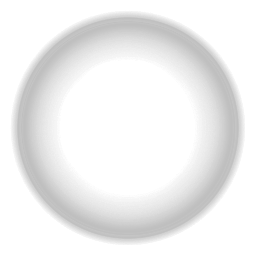
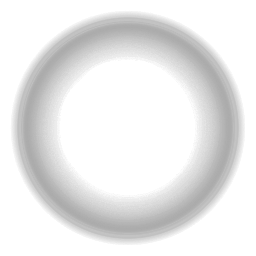
minor graphical tweaks

Changed region(s): [[0.0938, 0.0938, 0.9062, 0.9062]]

diff --git a/src/NodeTrack.cpp b/src/NodeTrack.cpp
@@ -105,7 +105,7 @@ void NodeTrack::setData( TrackRef track, PlaylistRef album, const Surface &album
 	mRadius				= 0.0f;
 	mSphere				= Sphere( mPos, mRadiusDest );
 	mIdealCameraDist	= 0.15f;//math<float>::max( mRadiusDest * 5.0f, 0.5f );
-	mCloudLayerRadius	= mRadiusDest * 0.05f;
+	mCloudLayerRadius	= mRadiusDest * 0.025f;
 	
 	mOrbitPeriod		= mTrackLength;
 
@@ -113,7 +113,7 @@ void NodeTrack::setData( TrackRef track, PlaylistRef album, const Surface &album
 	
 	mInitAngle			= mOrbitStartAngle;
 	mAxialTilt			= Rand::randFloat( -5.0f, 20.0f );
-    mAxialVel			= Rand::randFloat( 15.0f, 20.0f ) * ( mStarRating + 1 );
+    mAxialVel			= Rand::randFloat( 15.0f, 20.0f );
 	mAxialRot			= Vec3f( 0.0f, Rand::randFloat( 150.0f ), mAxialTilt );
 
 	// TEXTURE CREATION MOVED TO UPDATE
@@ -123,16 +123,16 @@ void NodeTrack::setData( TrackRef track, PlaylistRef album, const Surface &album
 void NodeTrack::setStartAngle()
 {
 	mPercentPlayed		= 0.0f;
-	float angle			= atan2( mPos.z - mParentNode->mPos.z, mPos.x - mParentNode->mPos.x );
+//	float angle			= atan2( mPos.z - mParentNode->mPos.z, mPos.x - mParentNode->mPos.x );
 	float timeOffset	= (float)mMyTime/mOrbitPeriod;
 	mOrbitStartAngle	= timeOffset * TWO_PI;
 	
-	std::cout << "Start Angle set in NodeTrack: " << mOrbitStartAngle << std::endl;
-	std::cout << "mPercentPlayed: " << mPercentPlayed << std::endl;
-	std::cout << "timeOffset: " << timeOffset << std::endl;
-	std::cout << "mMyTime: " << mMyTime << std::endl;
-	std::cout << "angle: " << angle << std::endl;
-	std::cout << " ================= " << std::endl;
+//	std::cout << "Start Angle set in NodeTrack: " << mOrbitStartAngle << std::endl;
+//	std::cout << "mPercentPlayed: " << mPercentPlayed << std::endl;
+//	std::cout << "timeOffset: " << timeOffset << std::endl;
+//	std::cout << "mMyTime: " << mMyTime << std::endl;
+//	std::cout << "angle: " << angle << std::endl;
+//	std::cout << " ================= " << std::endl;
 }
 
 
@@ -224,6 +224,7 @@ void NodeTrack::update( float param1, float param2 )
 	// CREATE MOON TEXTURE
 	if( !mHasCreatedAlbumArt && mAge>mIndex * 2 ){
         int albumArtWidth   = mAlbumArtSurface.getWidth();
+		if( albumArtWidth > 256 ) albumArtWidth = 256; // FIXME: This is here because the album art is coming back at 320x320 for a 256x256 image request
 		int totalWidth		= albumArtWidth/2; // TODO: rename these?
 		int halfWidth		= totalWidth/2;
 		if( mAlbumArtSurface ){
@@ -240,7 +241,7 @@ void NodeTrack::update( float param1, float param2 )
             
 			// grab a section of the album art
 			Area a			= Area( x, y, x+w, y+h );
-			//std::cout << a << std::endl;
+//			std::cout << "area = " << a << std::endl;
 			Surface crop	= Surface( totalWidth, totalWidth, false );
 			Surface crop2	= Surface( totalWidth, totalWidth, false );
 			ci::ip::resize( mAlbumArtSurface, a, &crop, Area( 0, 0, halfWidth, totalWidth ), FilterCubic() );
@@ -264,7 +265,8 @@ void NodeTrack::update( float param1, float param2 )
 				}
 			}
 			
-            
+			
+
 			// fix the polar pinching
 			Surface::Iter iter2 = crop.getIter();
 			while( iter2.line() ) {
@@ -287,6 +289,7 @@ void NodeTrack::update( float param1, float param2 )
 					}
 				}
 			}
+			
 			
 			// add the planet texture
 			// and add the shadow from the cloud layer
@@ -315,6 +318,7 @@ void NodeTrack::update( float param1, float param2 )
             gl::Texture::Format fmt;
             fmt.enableMipmapping( true );
             fmt.setMinFilter( GL_LINEAR_MIPMAP_LINEAR );
+			
 			
 			mAlbumArtTex		= gl::Texture( planetSurface, fmt );
 			mHasAlbumArt		= true;
@@ -482,8 +486,6 @@ void NodeTrack::drawClouds( const vector<gl::Texture> &clouds )
 			glPushMatrix();
 			gl::translate( mPos );
 			clouds[mCloudTexIndex].enableAndBind();
-			
-		//	gl::enableAdditiveBlending();
 
             // !!! ROBERT/FIXME: there used to be an extra pushModelView() here
             // if things look weird with the clouds, it's probably Tom's fault for removing it
@@ -496,6 +498,7 @@ void NodeTrack::drawClouds( const vector<gl::Texture> &clouds )
 			const float grey = mShadowPer + 0.2f;
 			gl::color( ColorA( grey, grey, grey, alpha * mClosenessFadeAlpha ) );
 
+			gl::enableAdditiveBlending();
             if( mSphereScreenRadius > 70.0f ){
                 mHiSphere->draw();
             } else if( mSphereScreenRadius > 30.0f  ){
@@ -519,19 +522,20 @@ void NodeTrack::drawAtmosphere( const Vec3f &camEye, const Vec2f &center, const 
 
 		Vec2f dir		= mScreenPos - center;
 		float dirLength = dir.length()/500.0f;
-		float angle		= atan2( dir.y, dir.x );
-		float stretch	= 1.0f + dirLength * 0.1f;
 		float alpha = mNormPlayCount * 0.5f * mDeathPer;
 		
 //		float alpha = 0.3f * ( 1.0f - dirLength );
 //		if( G_ZOOM <= G_ALBUM_LEVEL )
 //			alpha = pinchAlphaPer;
 
+		Vec2f radius( mRadius, mRadius );
+		radius *= ( 2.45f + max( ( mSphereScreenRadius - 175.0f ) * 0.001f, 0.0f ) );
+		
+		
 		float grey = mShadowPer + 0.2f;
-		gl::color( ColorA( grey, grey, grey, alpha * mClosenessFadeAlpha ) );
-		Vec2f radius = Vec2f( mRadius * stretch, mRadius ) * 2.45f;
+		gl::color( ColorA( BRIGHT_BLUE, alpha * mClosenessFadeAlpha ) );
 		tex.enableAndBind();
-		bloom::gl::drawBillboard( mPos, radius, -angle, mBbRight, mBbUp );
+		bloom::gl::drawBillboard( mPos, radius, 0.0f, mBbRight, mBbUp );
 		tex.disable();
 		
 		gl::color( ColorA( mShadowPer, mShadowPer, mShadowPer, alpha * mClosenessFadeAlpha * mEclipseDirBasedAlpha * mDeathPer ) );

diff --git a/src/NodeAlbum.cpp b/src/NodeAlbum.cpp
@@ -126,6 +126,7 @@ void NodeAlbum::setData( PlaylistRef album )
 	int halfWidth		= totalWidth/2;
 	int border			= 10;
 	mAlbumArtSurface	= (*mAlbum)[0]->getArtwork( Vec2i( totalWidth, totalWidth ) );
+	
 	bool hasAlbumArt = true;
 	if( !mAlbumArtSurface ){
 		hasAlbumArt = false;
@@ -144,10 +145,9 @@ void NodeAlbum::setData( PlaylistRef album )
 	}
 	
 	// grab a section of the album art
-	Area a			= Area( x, y, x+w, y+h );
 	Surface crop	= Surface( totalWidth, totalWidth, false );
 	Surface crop2	= Surface( totalWidth, totalWidth, false );
-	ci::ip::resize( mAlbumArtSurface, a, &crop, Area( 0, 0, halfWidth, totalWidth ), FilterCubic() );
+	ci::ip::resize( mAlbumArtSurface, Area( x, y, x+w, y+h ), &crop, Area( 0, 0, halfWidth, totalWidth ), FilterCubic() );
 	
 	// make it a mirror image
 	Surface::Iter iter = crop2.getIter();
@@ -167,30 +167,30 @@ void NodeAlbum::setData( PlaylistRef album )
 			iter.b() = c.b * 255.0f;
 		}
 	}
-	
-	// fix the polar pinching
-	Surface::Iter iter2 = crop.getIter();
-	while( iter2.line() ) {
-		float cosTheta = cos( M_PI * ( iter2.y() - (float)( totalWidth - 1 )/2.0f ) / (float)( totalWidth - 1 ) );
-		
-		while( iter2.pixel() ) {
-			float phi	= TWO_PI * ( iter2.x() - halfWidth ) / (double)totalWidth;
-			float phi2	= phi * cosTheta;
-			int i2 = phi2 * totalWidth/TWO_PI + halfWidth;
-			
-			if( i2 < 0 || i2 > totalWidth-1 ){
-				// this should never happen
-				iter2.r() = 255.0f;
-				iter2.g() = 0.0f;
-				iter2.b() = 0.0f;
-			} else {
-				ColorA c = crop2.getPixel( Vec2i( i2, iter2.y() ) );
-				iter2.r() = c.r * 255.0f;
-				iter2.g() = c.g * 255.0f;
-				iter2.b() = c.b * 255.0f;
-			}
-		}
-	}
+//	
+//	// fix the polar pinching
+//	Surface::Iter iter2 = crop.getIter();
+//	while( iter2.line() ) {
+//		float cosTheta = cos( M_PI * ( iter2.y() - (float)( totalWidth - 1 )/2.0f ) / (float)( totalWidth - 1 ) );
+//		
+//		while( iter2.pixel() ) {
+//			float phi	= TWO_PI * ( iter2.x() - halfWidth ) / (double)totalWidth;
+//			float phi2	= phi * cosTheta;
+//			int i2 = phi2 * totalWidth/TWO_PI + halfWidth;
+//			
+//			if( i2 < 0 || i2 > totalWidth-1 ){
+//				// this should never happen
+//				iter2.r() = 255.0f;
+//				iter2.g() = 0.0f;
+//				iter2.b() = 0.0f;
+//			} else {
+//				ColorA c = crop2.getPixel( Vec2i( i2, iter2.y() ) );
+//				iter2.r() = c.r * 255.0f;
+//				iter2.g() = c.g * 255.0f;
+//				iter2.b() = c.b * 255.0f;
+//			}
+//		}
+//	}
 	
 	// add the planet texture
 	// and add the shadow from the cloud layer
@@ -202,7 +202,7 @@ void NodeAlbum::setData( PlaylistRef album )
 	iter = planetSurface.getIter();
 	while( iter.line() ) {
 		while( iter.pixel() ) {
-			ColorA albumColor	= crop.getPixel( Vec2i( iter.x(), iter.y() ) );
+			ColorA albumColor	= crop2.getPixel( Vec2i( iter.x(), iter.y() ) );
 			ColorA surfaceColor	= planetSurface.getPixel( Vec2i( iter.x(), iter.y() ) );
 			float planetVal		= surfaceColor.r;
 			float cloudShadow	= surfaceColor.g * 0.5f + 0.5f;
@@ -382,7 +382,7 @@ void NodeAlbum::drawClouds( const vector<gl::Texture> &clouds )
 		}
 		
 		
-		gl::enableAlphaBlending();
+		
         
 		glPushMatrix();
 		gl::translate( mPos );
@@ -393,6 +393,7 @@ void NodeAlbum::drawClouds( const vector<gl::Texture> &clouds )
         const float alpha = constrain( ( 5.0f - mDistFromCamZAxis ) * 0.2f, 0.0f, 0.334f ) * mClosenessFadeAlpha;        
         
         // SHADOW CLOUDS
+		gl::enableAlphaBlending();
         gl::scale( Vec3f( radius, radius, radius ) );
         gl::rotate( mAxialRot * Vec3f( 1.0f, 0.75f, 1.0f ) + Vec3f( 0.0f, 0.5f, 0.0f ) );        
         if (G_IS_IPAD2 || G_DEBUG) {
@@ -417,22 +418,23 @@ void NodeAlbum::drawClouds( const vector<gl::Texture> &clouds )
 
 void NodeAlbum::drawAtmosphere( const Vec3f &camEye, const Vec2f &center, const gl::Texture &tex, const gl::Texture &directionalTex, float pinchAlphaPer )
 {
-	if( mClosenessFadeAlpha > 0.0f ){
+	if( mClosenessFadeAlpha > 0.0f ){		
 		Vec2f dir		= mScreenPos - center;
 		float dirLength = dir.length()/500.0f;
 		float alpha = ( 1.0f - dirLength * 0.75f ) + mEclipseStrength;
 		alpha *= mDeathPer * mClosenessFadeAlpha * ( mBlockedBySunPer - 0.5f ) * 2.0f;
-
+		Vec2f radius( mRadius, mRadius );
+		radius *= ( 2.46f + max( ( mSphereScreenRadius - 175.0f ) * 0.001f, 0.0f ) );
 		
-		gl::color( ColorA( ( mGlowColor + BRIGHT_BLUE ) * 0.5f, 1.0f + mEclipseStrength * 2.0f ) );
+		gl::color( ColorA( BRIGHT_BLUE, 1.0f + mEclipseStrength * 2.0f ) );
 		tex.enableAndBind();
-		bloom::gl::drawSphericalBillboard( camEye, mPos, Vec2f( mRadius, mRadius ) * 2.46f, 0.0f );
+		bloom::gl::drawSphericalBillboard( camEye, mPos, radius, 0.0f );
 		tex.disable();
 		
 		gl::color( ColorA( mColor, alpha * mEclipseDirBasedAlpha ) );
 		directionalTex.enableAndBind();
-		bloom::gl::drawSphericalBillboard( camEye, mPos, Vec2f( mRadius, mRadius ) * 2.46f, -mEclipseAngle );
-		
+		//bloom::gl::drawSphericalBillboard( camEye, mPos, Vec2f( mRadius, mRadius ) * 2.46f, -mEclipseAngle );
+		bloom::gl::drawBillboard( mPos, radius, -mEclipseAngle, mBbRight, mBbUp );
 //		if( mIsPlaying ) std::cout << -toDegrees( mEclipseAngle ) << std::endl;
 		directionalTex.disable();
 		

diff --git a/src/NodeArtist.cpp b/src/NodeArtist.cpp
@@ -62,7 +62,7 @@ void NodeArtist::setData( PlaylistRef playlist )
 	int totalCharAscii = ( c1Int - 32 ) + ( c2Int - 32 );
 	float asciiPer = ( (float)totalCharAscii/( 190.0f ) ) * 5000.0f ;
 	
-	mHue			= sin( asciiPer ) * 0.4f + 0.4f; // Range of 0.0(red) to 0.8(deep purple)
+	mHue			= sin( asciiPer ) * 0.35f + 0.35f; // Range of 0.0(red) to 0.8(deep purple)
 	
 	mSat			= ( 1.0f - sin( ( mHue + 0.15f ) * M_PI ) ) * 0.75f;
 	mColor			= Color( CM_HSV, mHue, mSat, 1.0f );
@@ -211,26 +211,19 @@ void NodeArtist::drawExtraGlow( const gl::Texture &tex )
 	if( mIsHighlighted ){
 		Vec2f dir		= mScreenPos - app::getWindowCenter();
 		float dirLength = dir.length()/800.0f;
-		float angle		= atan2( dir.y, dir.x );
-		float stretch	= dirLength * mRadius * 0.1f;
 		float alpha = ( 1.0f - dirLength ) * sin( mEclipseStrength * M_PI_2 + M_PI_2 );
 		alpha *= mDeathPer;
-		
-		//		gl::color( ColorA( ( mGlowColor + BRIGHT_BLUE ) * 0.5f, alpha * ( 0.2f - mHue ) * 15.0f ) );
 
-		Vec2f radius = Vec2f( mRadius, mRadius ) * 9.5f;
-		//Vec2f radius = Vec2f( mRadius, mRadius ) * 2.46f;
+		Vec2f radius = Vec2f( mRadius, mRadius ) * 7.5f;
 		
 		tex.enableAndBind();
-		Vec3f posOffset = Vec3f( cos(angle), sin(angle), 0.0f ) * stretch * 0.1f;
 		
-		gl::color( ColorA( mGlowColor, alpha * 0.65f ) );
-		gl::drawBillboard( mPos - posOffset, radius, -toDegrees( angle ), mBbRight, mBbUp );
+//		gl::color( ColorA( mGlowColor, alpha * 0.75f ) );
+//		bloom::gl::drawBillboard( mPos, radius * 1.25f, 0.0f, mBbRight, mBbUp );
 		
 	// SMALLER INNER GLOW
-		//gl::color( ColorA( mGlowColor, sin( mEclipseStrength * M_PI ) * 0.5f + 0.2f ) );
-		gl::color( ColorA( mGlowColor, sin( ( mEclipseStrength * 0.75f + 0.25f ) * M_PI ) * sin( mEclipseStrength * 1.0f + 0.4f ) ) );
-		gl::drawBillboard( mPos - posOffset, radius * sin( ( mEclipseStrength * 0.75f + 0.25f ) * M_PI ) * sin( mEclipseStrength * 1.5f + 0.2f ), -toDegrees( angle ), mBbRight, mBbUp );
+		gl::color( ColorA( Color::white(), sin( ( mEclipseStrength * 0.75f + 0.25f ) * M_PI ) * sin( mEclipseStrength * 1.0f + 0.4f ) ) );
+		bloom::gl::drawBillboard( mPos, radius * sin( ( mEclipseStrength * 0.75f + 0.25f ) * M_PI ) * sin( mEclipseStrength * 1.0f + 0.4f ), 0.0f, mBbRight, mBbUp );
 		tex.disable();
 	}
 	//}

diff --git a/src/KeplerApp.cpp b/src/KeplerApp.cpp
@@ -1417,8 +1417,8 @@ void KeplerApp::drawScene()
 			gl::disableDepthRead();
 			
 			if( sortedNodes[i]->mGen == G_ARTIST_LEVEL ){
-				gl::enableAlphaBlending();
-				sortedNodes[i]->drawAtmosphere( mEye - mCenterOffset, interfaceSize * 0.5f, mAtmosphereSunTex, mAtmosphereDirectionalTex, mPinchAlphaPer );	
+				//gl::enableAlphaBlending();
+				//sortedNodes[i]->drawAtmosphere( mEye - mCenterOffset, interfaceSize * 0.5f, mAtmosphereSunTex, mAtmosphereDirectionalTex, mPinchAlphaPer );	
 			} else {
 				gl::enableAdditiveBlending();
 				sortedNodes[i]->drawAtmosphere( mEye - mCenterOffset, interfaceSize * 0.5f, mAtmosphereTex, mAtmosphereDirectionalTex, mPinchAlphaPer );
@@ -1485,14 +1485,14 @@ void KeplerApp::drawScene()
 	
 // GALAXY DARK MATTER:
     if (G_IS_IPAD2 || G_DEBUG) {
+		gl::enableAlphaBlending();    
         mGalaxy.drawDarkMatter();
     }
 	
 // NAMES
 	gl::disableDepthRead();
 	gl::disableDepthWrite();
-	gl::setMatricesWindow( getWindowSize() );
-    gl::enableAlphaBlending();    
+	gl::setMatricesWindow( getWindowSize() ); 
     gl::enableAdditiveBlending();
 	
     if( G_DRAW_TEXT ){

diff --git a/src/HelpLayer.cpp b/src/HelpLayer.cpp
@@ -222,6 +222,9 @@ void HelpLayer::draw( const gl::Texture &tex, float y )
         gl::draw( tex, Area(0.75f * texw, 0.25f * texh, 1.0f * texw, 0.5f * texh), mMailButton );
         gl::draw( tex, Area(0.75f * texw, 0.25f * texh, 1.0f * texw, 0.5f * texh), mPlanetaryButton );
 		
+		
+		
+		/*
 		int count = 0;
 		for( vector<gl::Texture>::iterator it = mHelpTextures.begin(); it != mHelpTextures.end(); ++it ){
 			Vec2f offset( -3.0f, -15.0f );
@@ -294,6 +297,8 @@ void HelpLayer::draw( const gl::Texture &tex, float y )
 				gl::enableAlphaBlending();
 			}
 		}
+		 
+		 */
 		glPopMatrix(); 
 	}
 }

diff --git a/src/Galaxy.cpp b/src/Galaxy.cpp
@@ -27,8 +27,8 @@ ci::gl::Texture galaxyDome, ci::gl::Texture galaxyTex, ci::gl::Texture darkMatte
 	mDarkMatterCylinderRes = 48;    
     initGalaxyVertexArray();
     initDarkMatterVertexArray();    
-   	mLightMatterBaseRadius = initialCamDist * 0.75f;
-	mDarkMatterBaseRadius = initialCamDist * 0.86f; 
+   	mLightMatterBaseRadius = initialCamDist * 0.675f;
+	mDarkMatterBaseRadius = initialCamDist * 0.75f; 
 
     mLightMatterColor = lightMatterColor;
     mCenterColor = centerColor;
